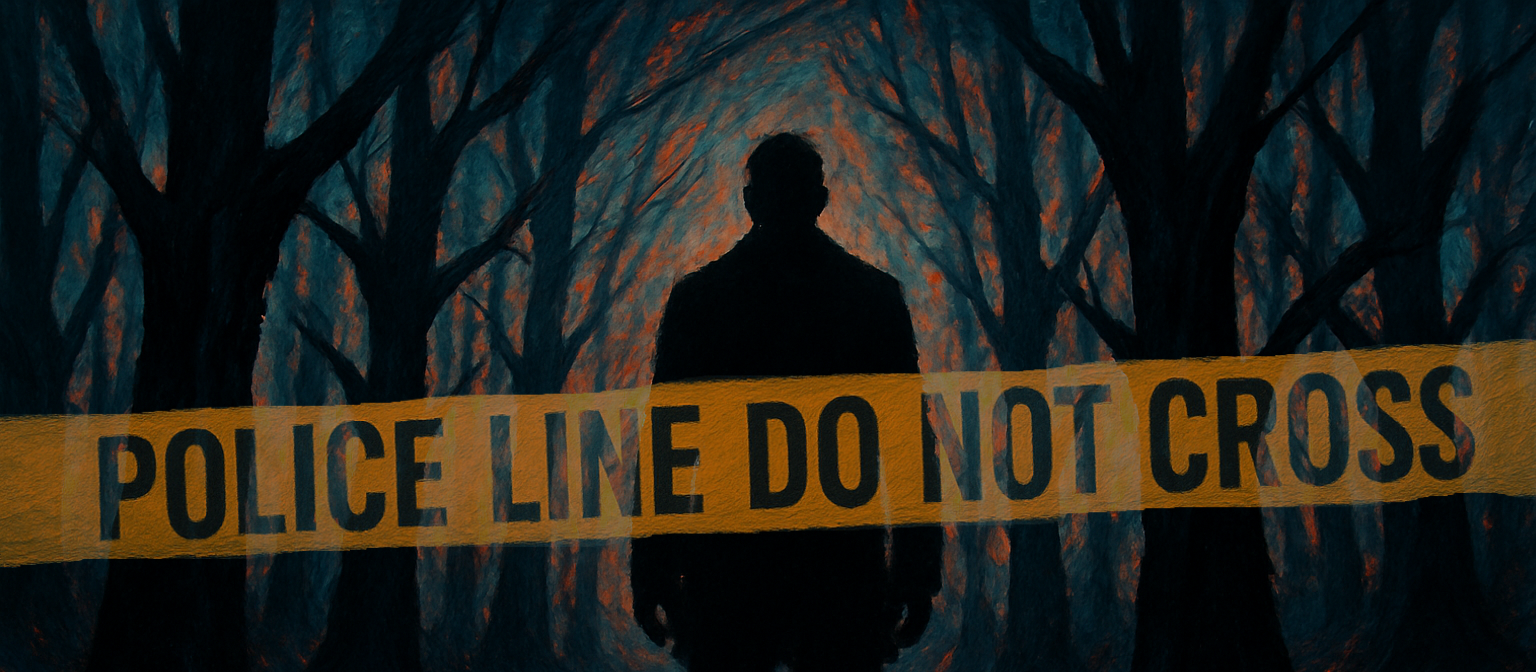
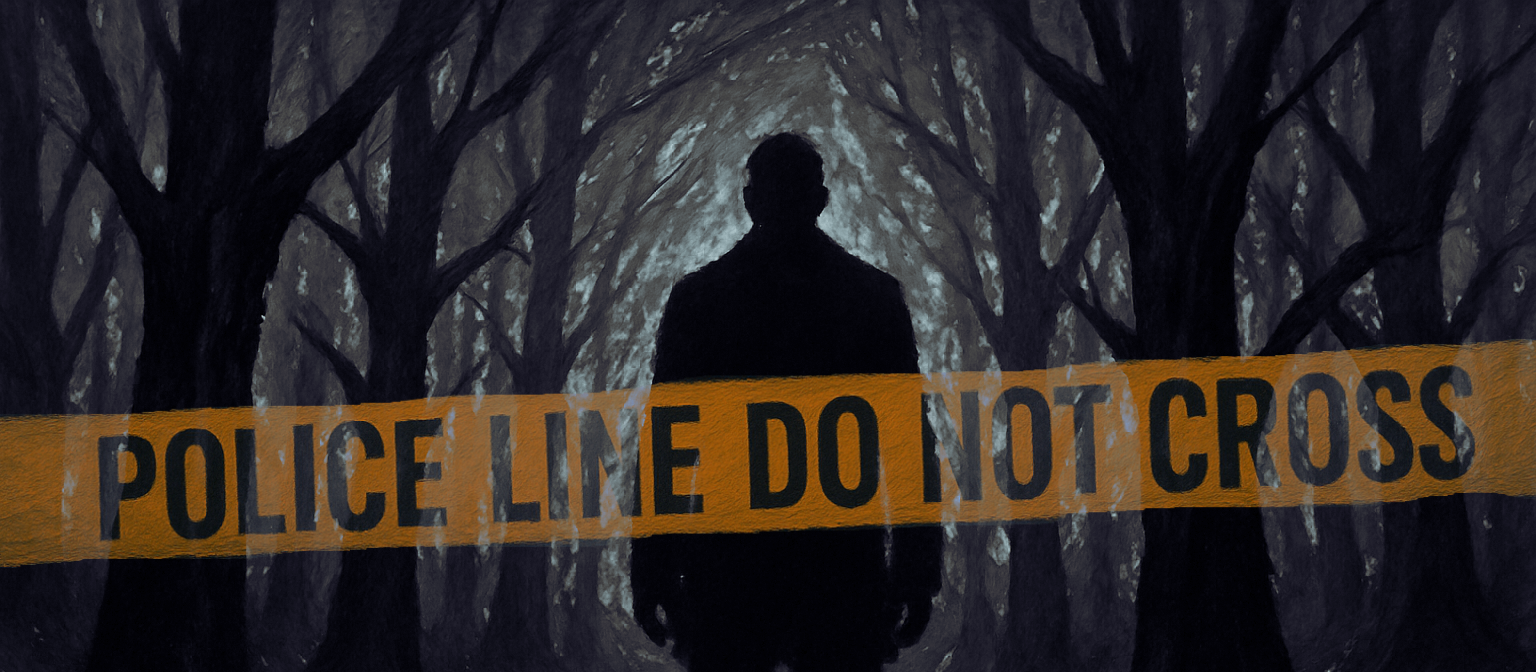
Finesse redesign

diff --git a/src/app/page-client.jsx b/src/app/page-client.jsx
@@ -50,7 +50,7 @@ export default function PageClient() {
       <section
         className="bg-gradient-to-r from-purple-700 to-indigo-800 text-white py-24 sm:py-32"
         style={{
-          backgroundImage: 'url(/images/title-image4.png), linear-gradient(to right, rgba(189,25, 0, 0.5), rgba(0, 120, 170, 0.4))',
+          backgroundImage: 'url(/images/title-image4.png), linear-gradient(to right, rgba(40, 140, 100, 0.6), rgba(0, 120, 170, 0.6))',
           backgroundBlendMode: 'overlay',
           backgroundSize: 'cover',
           backgroundPosition: 'center',
@@ -125,7 +125,7 @@ export default function PageClient() {
 <em>Experience the pulse-pounding finale of The Ward Trilogy today!</em>
                 </p>
                 <span className="inline-block bg-purple-600 text-white font-semibold py-3 px-6 rounded-lg shadow-lg hover:bg-purple-700 transition-transform transform hover:scale-105">
-                  Get It Now
+                  Pre-Order it Now
                 </span>
               </div>
             </a>
